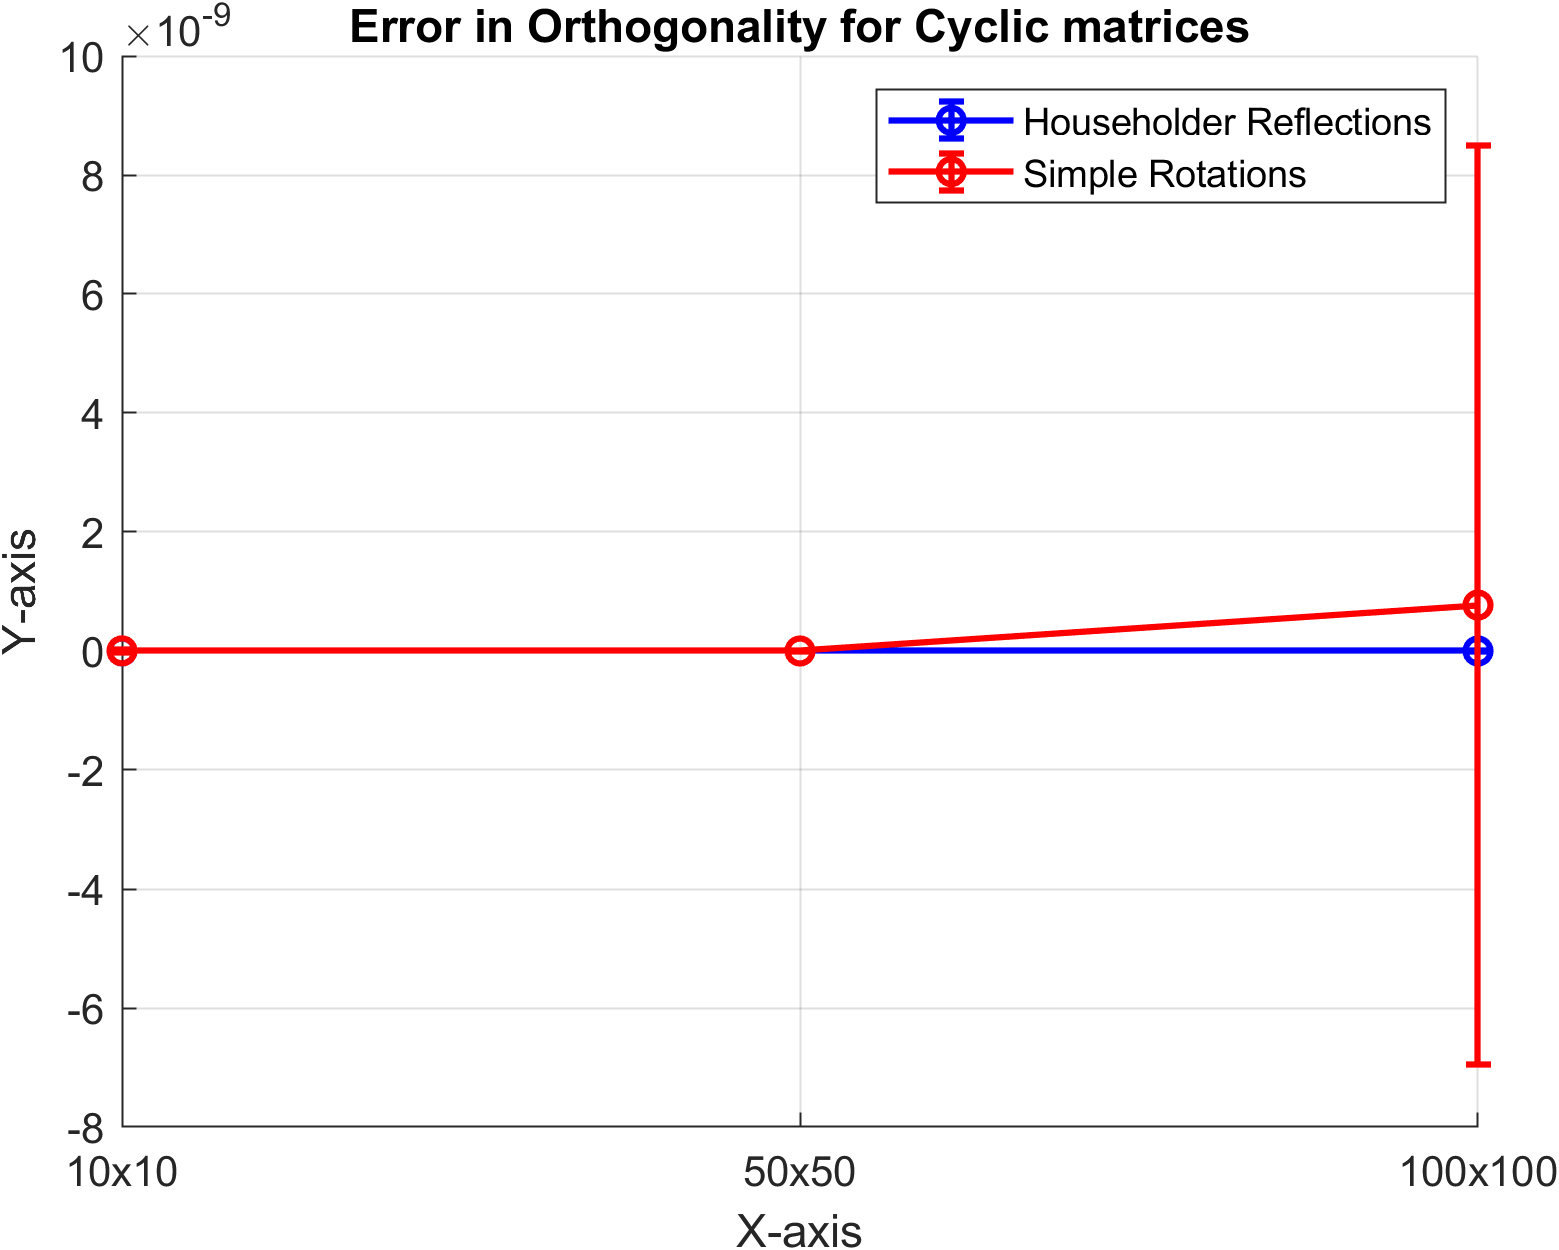
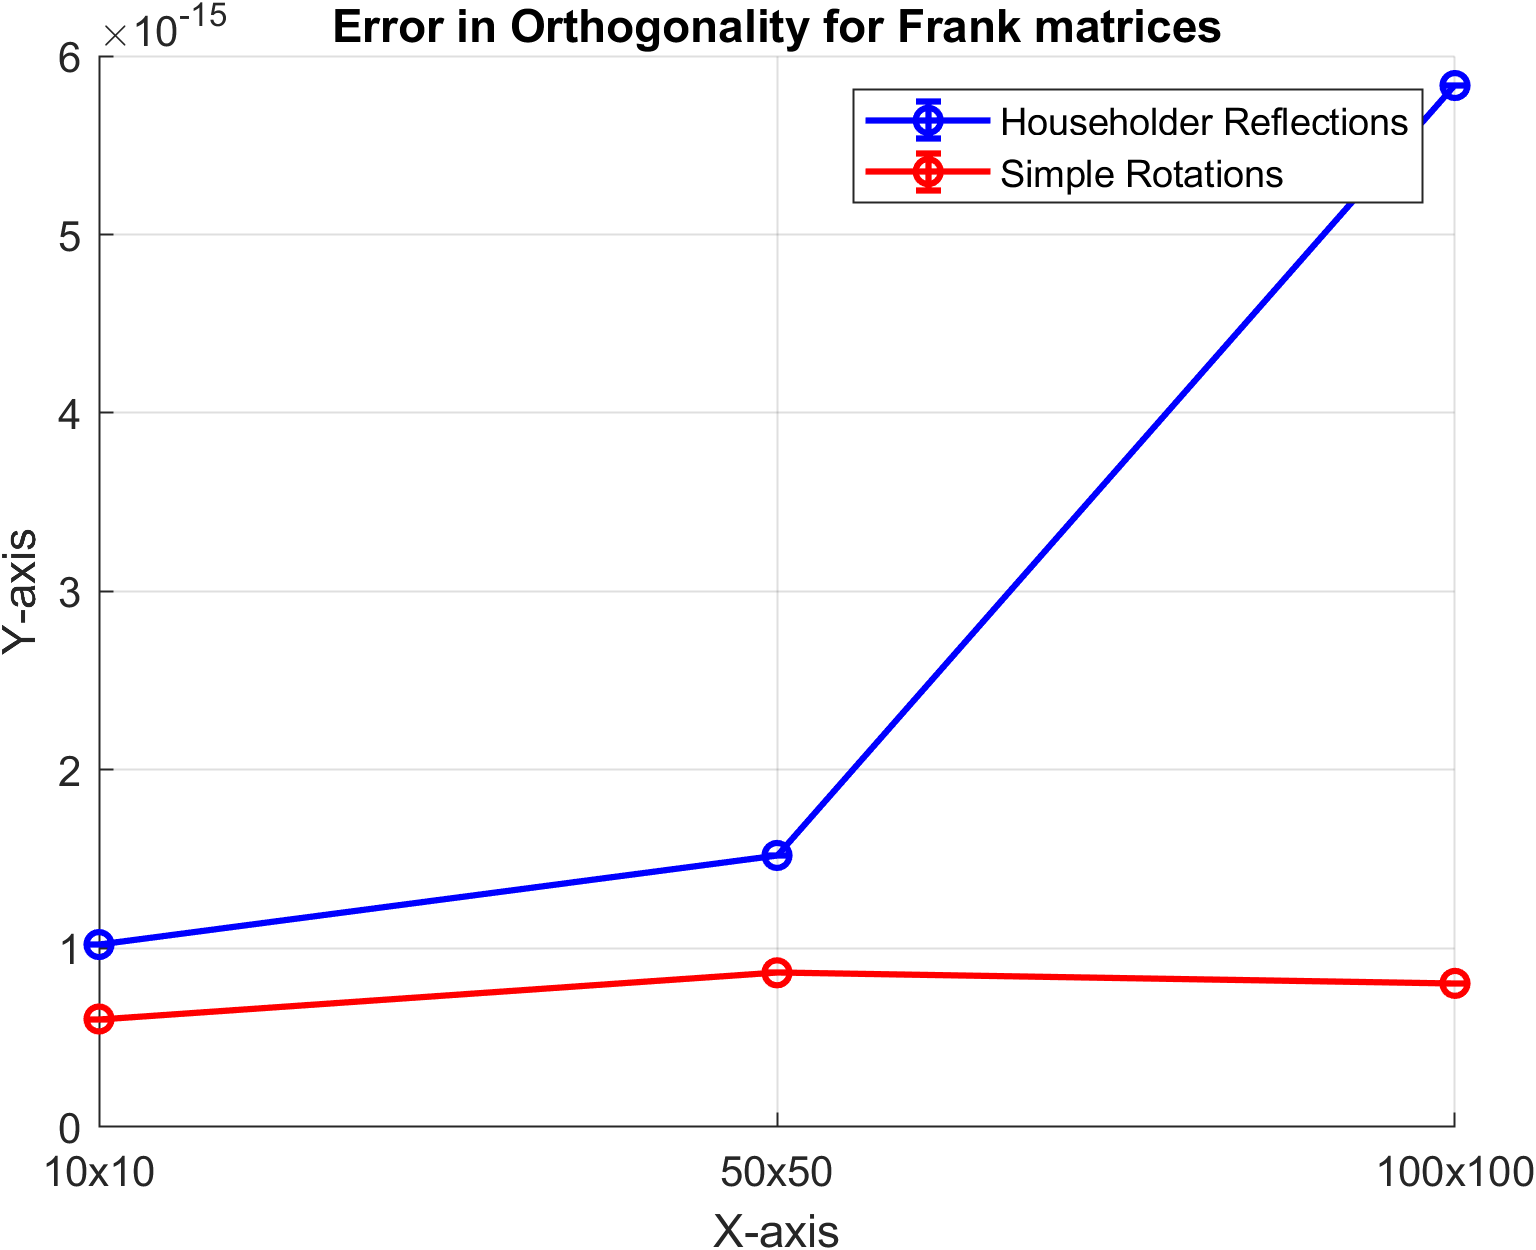
Testing for frank instead of cyclic

diff --git a/SimpleRotations.m b/SimpleRotations.m
@@ -74,7 +74,7 @@ function [orth_result, col_result, proj_result] = householdervsimpleQR(matrixsiz
             if i <= numel(matrixsizes)
                  A = randn(matrixsizes{i});
             else
-                A = gallery("cycol",testmatrices{i-numel(matrixsizes)});
+                A = gallery("frank",testmatrices{i-numel(matrixsizes)});
             end
            
                 [Q_house, R_house] = qr(A);
@@ -243,7 +243,7 @@ function[] = plotting(orth_result, col_result, proj_result, numrand, numtest)
 
     xlabel('X-axis');
     ylabel('Y-axis');
-    title('Error in Orthogonality for Cyclic matrices');
+    title('Error in Orthogonality for Frank matrices');
     xticks(xtest)
     xticklabels({'10x10', '50x50', '100x100'});
     legend('Householder Reflections', 'Simple Rotations');
@@ -289,7 +289,7 @@ function[] = plotting(orth_result, col_result, proj_result, numrand, numtest)
     exportgraphics(f,'plot3.png','Resolution',300)
 
     
-    %Cyclic
+    %frank
     
 
     % Define the y-values for Householder
@@ -314,7 +314,7 @@ function[] = plotting(orth_result, col_result, proj_result, numrand, numtest)
 
     xlabel('X-axis');
     ylabel('Y-axis');
-    title('Error in Column space for Cyclic matrices');
+    title('Error in Column space for frank matrices');
     xticks(xtest)
     xticklabels({'10x10', '50x50', '100x100'});
 
@@ -392,7 +392,7 @@ function[] = plotting(orth_result, col_result, proj_result, numrand, numtest)
     exportgraphics(f,'plot6.png','Resolution',300)
 
     
-    %Cyclic
+    %frank
     
     % Define the y-values for Householder
     y1 = cell2mat( proj_result(numrand+1:end,1));
@@ -420,7 +420,7 @@ function[] = plotting(orth_result, col_result, proj_result, numrand, numtest)
 
     xlabel('X-axis');
     ylabel('Y-axis');
-    title('Error in Projection onto col(Q) for Cyclic mtx');
+    title('Error in Projection onto col(Q) for frank mtx');
     xticks(xtest)
     xticklabels({'10x10', '50x50', '100x100'});
 
@@ -442,7 +442,7 @@ function[] = plotting(orth_result, col_result, proj_result, numrand, numtest)
 
     xlabel('X-axis');
     ylabel('Y-axis');
-    title('Error in Projection onto null(Q) for Cyclic mtx');
+    title('Error in Projection onto null(Q) for frank mtx');
     xticks(xtest)
     xticklabels({'10x10', '50x50', '100x100'});
 

diff --git a/testttt.m b/testttt.m
@@ -1,0 +1,52 @@
+for i=1:10
+    A = gallery("cycol",100);
+    [q, r] = SimpleQR(A);
+    hei = orth(q);
+
+end
+
+
+function [Q, R] = SimpleQR(A)
+  [N, M] = size(A);
+
+    A_aug = A;
+
+    S_cell = cell(N-1,1); 
+
+    Q = eye(N);
+    R = A;
+
+    for i=1:M-1
+        A_i = A_aug(i:end, i:end);
+        if A_i(:,1) == zeros(size(A_i(:,1)))
+            break;
+        end
+        x = A_i(:,1);
+        if isnan( x )
+            disp("halla");
+        end
+        length = size(x,1);
+        x = x / norm(x);
+        x_1 = x(1);
+        x_2 = x(2:end);
+
+        K = eye(length-1) - (x_2*x_2'/(1+x_1));
+        S_x = [x_1 , x_2' ; -x_2, K];
+
+        %create the full S
+        if i == 1
+            S = S_x;
+        else
+            S = [eye(i-1), zeros(i-1,N-(i-1)); zeros(N-(i-1),i-1), S_x];
+        end
+
+        S_cell{i} = S;
+
+        A_aug = S *A_aug;
+        Q = S*Q;
+        R = S*R;
+        
+
+    end
+  
+end
